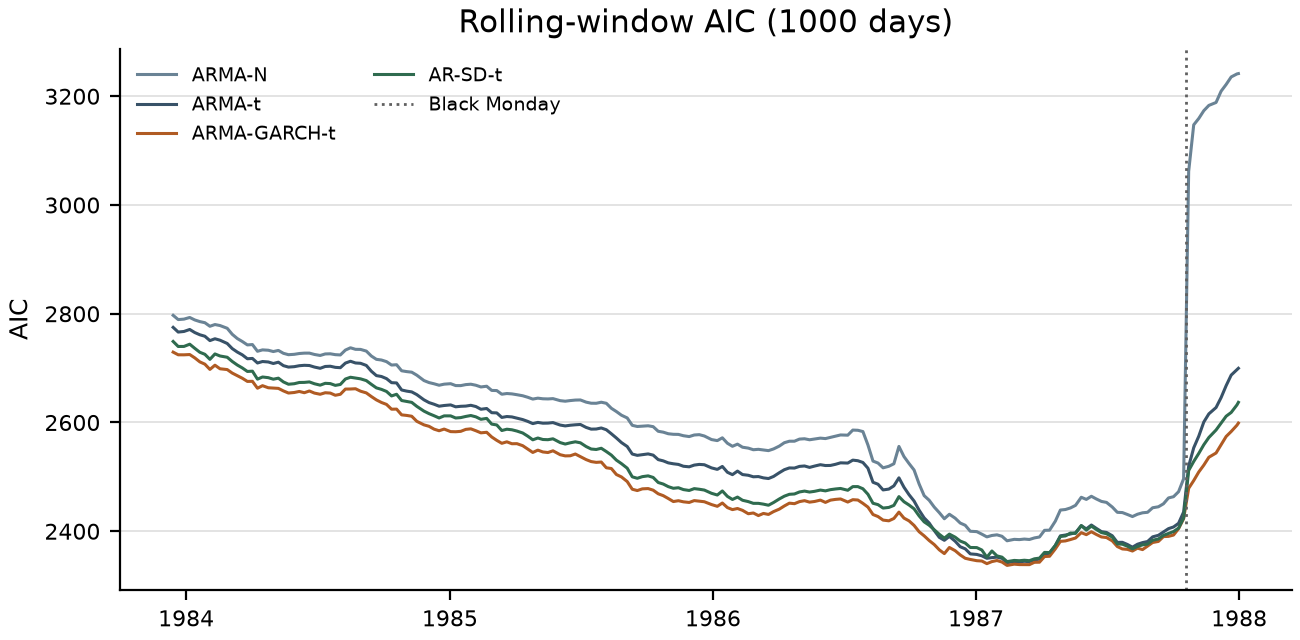
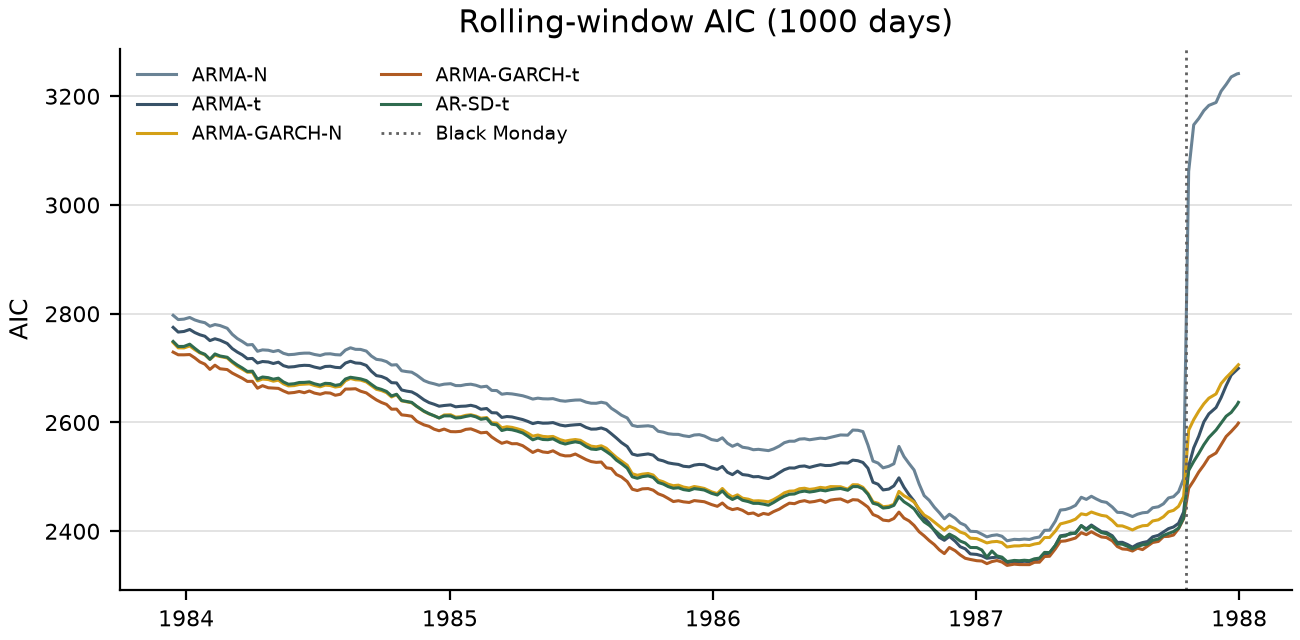
Update notation appendix and enhance model comparison functionality
- Expanded the notation appendix to include ARMA-GARCH-N alongside existing models.
- Updated `compare_models.py` to incorporate ARMA-GARCH-N in model comparisons.
- Revised README to reflect the addition of the new model and its specifications.
- Modified GARCH model implementations to support both Gaussian and Student-t innovations.

diff --git a/models/garch.py b/models/garch.py
@@ -1,4 +1,4 @@
-"""AR(1)–GARCH(1,1) with Student-t innovations."""
+"""AR(1)–GARCH(1,1) with Gaussian or Student-t innovations."""
 
 from __future__ import annotations
 
@@ -13,23 +13,31 @@ try:
 except Exception:
     _HAS_ARCH = False
 
+_LABELS = {"normal": "ARMA-GARCH-N", "t": "ARMA-GARCH-t"}
+_ARCH_DIST = {"normal": "normal", "t": "t"}
 
-def fit_ar_garch_t(returns) -> dict:
-    """Fit AR(1)–GARCH(1,1)–t and return VaR, AIC, residuals, and simulator."""
+
+def _fit_ar_garch(returns, distribution: str) -> dict:
+    """Fit AR(1)–GARCH(1,1) and return VaR, AIC, residuals, and simulator."""
+    if distribution not in _LABELS:
+        raise ValueError(f"Unknown distribution: {distribution}")
+    label = _LABELS[distribution]
     y = np.asarray(returns, dtype=float)
 
     if _HAS_ARCH:
-        model = arch_model(y, mean="AR", lags=1, vol="GARCH", p=1, q=1, dist="t")
+        model = arch_model(
+            y, mean="AR", lags=1, vol="GARCH", p=1, q=1, dist=_ARCH_DIST[distribution]
+        )
         fitted = model.fit(disp="off", show_warning=False)
         if fitted.convergence_flag != 0:
-            fitted_core = fit_ar_garch(y, distribution="t")
+            fitted_core = fit_ar_garch(y, distribution=distribution)
             params = fitted_core["params"]
 
             def simulate(n: int, rng: np.random.Generator) -> np.ndarray:
-                return simulate_ar_garch(params, n, rng, distribution="t")
+                return simulate_ar_garch(params, n, rng, distribution=distribution)
 
             return {
-                "model": "ARMA-GARCH-t",
+                "model": label,
                 "aic": fitted_core["aic"],
                 "var_1pct": fitted_core["var_1pct"],
                 "simulate": simulate,
@@ -41,8 +49,13 @@ def fit_ar_garch_t(returns) -> dict:
         mean = float(forecast.mean.iloc[-1, 0])
         vol = float(np.sqrt(forecast.variance.iloc[-1, 0]))
         innovation = model.distribution
-        shape = fitted.params.reindex(innovation.parameter_names()).to_numpy()
-        var_1pct = mean + vol * float(innovation.ppf(0.01, shape))
+        if distribution == "t":
+            shape = fitted.params.reindex(innovation.parameter_names()).to_numpy()
+            var_1pct = mean + vol * float(innovation.ppf(0.01, shape))
+            nu = float(fitted.params["nu"])
+        else:
+            var_1pct = mean + vol * float(innovation.ppf(0.01))
+            nu = None
         std_resid = np.asarray(fitted.std_resid, dtype=float)
         std_resid = std_resid[np.isfinite(std_resid)]
         const = float(fitted.params.get("Const", fitted.params.get("mu", 0.0)))
@@ -50,7 +63,6 @@ def fit_ar_garch_t(returns) -> dict:
         omega = float(fitted.params["omega"])
         alpha = float(fitted.params["alpha[1]"])
         beta = float(fitted.params["beta[1]"])
-        nu = float(fitted.params["nu"])
         cond_vol = np.asarray(fitted.conditional_volatility, dtype=float)
         params = {
             "const": const,
@@ -67,10 +79,10 @@ def fit_ar_garch_t(returns) -> dict:
         }
 
         def simulate(n: int, rng: np.random.Generator) -> np.ndarray:
-            return simulate_ar_garch(params, n, rng, distribution="t")
+            return simulate_ar_garch(params, n, rng, distribution=distribution)
 
         return {
-            "model": "ARMA-GARCH-t",
+            "model": label,
             "aic": float(fitted.aic),
             "var_1pct": float(var_1pct),
             "simulate": simulate,
@@ -78,17 +90,27 @@ def fit_ar_garch_t(returns) -> dict:
             "params": params,
         }
 
-    fitted = fit_ar_garch(y, distribution="t")
+    fitted = fit_ar_garch(y, distribution=distribution)
     params = fitted["params"]
 
     def simulate(n: int, rng: np.random.Generator) -> np.ndarray:
-        return simulate_ar_garch(params, n, rng, distribution="t")
+        return simulate_ar_garch(params, n, rng, distribution=distribution)
 
     return {
-        "model": "ARMA-GARCH-t",
+        "model": label,
         "aic": fitted["aic"],
         "var_1pct": fitted["var_1pct"],
         "simulate": simulate,
         "std_resid": fitted["std_resid"],
         "params": params,
     }
+
+
+def fit_ar_garch_n(returns) -> dict:
+    """Fit AR(1)–GARCH(1,1)–Normal."""
+    return _fit_ar_garch(returns, "normal")
+
+
+def fit_ar_garch_t(returns) -> dict:
+    """Fit AR(1)–GARCH(1,1)–t and return VaR, AIC, residuals, and simulator."""
+    return _fit_ar_garch(returns, "t")

diff --git a/annexe_notations.tex b/annexe_notations.tex
@@ -1,7 +1,7 @@
 \section*{Appendix~A --- Notation and Variable Definitions}
 \label{annexe:notations}
 
-This appendix lists all symbols used in the presentation of the five forecasting models: Gaussian ARMA (ARMA-N), Student-$t$ ARMA (ARMA-t), ARMA-GARCH-t~\cite{Bollerslev1986}, Extreme Value / McNeil--Frey~\cite{McNeilFrey2000}, and AR-SD-t~\cite{DelleMonachePetrella2017}. When the same symbol appears in more than one model, its local meaning is spelled out.
+This appendix lists all symbols used in the presentation of the six forecasting models: Gaussian ARMA (ARMA-N), Student-$t$ ARMA (ARMA-t), ARMA-GARCH-N and ARMA-GARCH-t~\cite{Bollerslev1986}, Extreme Value / McNeil--Frey~\cite{McNeilFrey2000}, and AR-SD-t~\cite{DelleMonachePetrella2017}. When the same symbol appears in more than one model, its local meaning is spelled out.
 
 \subsection*{A.1 Common variables and parameters}
 
@@ -21,7 +21,7 @@ This appendix lists all symbols used in the presentation of the five forecasting
   \item[$W_t$]
     Innovation (noise) at date~$t$. Its distribution depends on the model:
     Gaussian for ARMA-N, Student-$t$ for ARMA-t and AR-SD-t,
-    and $\sigma_t Z_t$ for ARMA-GARCH-t.
+    and $\sigma_t Z_t$ for ARMA-GARCH-N / ARMA-GARCH-t.
   \item[$W_{t-1}$]
     One-period lagged innovation (MA term).
   \item[$\nu$]
@@ -62,12 +62,16 @@ This appendix lists all symbols used in the presentation of the five forecasting
     the variance equals $s^2\,\nu/(\nu-2)$ when $\nu > 2$.
 \end{description}
 
-\subsection*{A.4 ARMA-GARCH-t}
+\subsection*{A.4 ARMA-GARCH-N and ARMA-GARCH-t}
 
 \begin{align*}
   Y_t &= c + \varphi Y_{t-1} + W_t, \\
   W_t &= \sigma_t Z_t,
-  \qquad Z_t \sim t_{\nu}, \\
+  \qquad Z_t \sim
+  \begin{cases}
+    \mathcal{N}(0,1) & \text{(ARMA-GARCH-N)}, \\
+    t_{\nu} & \text{(ARMA-GARCH-t)},
+  \end{cases} \\
   \sigma_t^2 &= \omega + \alpha W_{t-1}^2 + \beta \sigma_{t-1}^2.
 \end{align*}
 
@@ -80,7 +84,7 @@ This appendix lists all symbols used in the presentation of the five forecasting
     Lagged conditional variance (GARCH persistence).
   \item[$Z_t$]
     Standardized residual: unit-variance white innovation,
-    here following a Student-$t$ distribution with $\nu$ degrees of freedom.
+    Gaussian for ARMA-GARCH-N, Student-$t$ with $\nu$ degrees of freedom for ARMA-GARCH-t.
   \item[$\omega$]
     Constant in the GARCH variance equation ($\omega > 0$).
   \item[$\alpha$]
@@ -179,7 +183,7 @@ The lower tail is modeled with a generalized Pareto distribution (GPD) on excess
 \subsection*{A.7 Summary of notational ambiguities}
 
 \begin{itemize}
-  \item $\beta$ denotes the GARCH coefficient in ARMA-GARCH-t, and the GPD scale in the Extreme Value model.
+  \item $\beta$ denotes the GARCH coefficient in ARMA-GARCH-N / ARMA-GARCH-t, and the GPD scale in the Extreme Value model.
   \item $\sigma$ / $\sigma_t$ denote a constant innovation scale (ARMA-N) or a conditional volatility (GARCH, AR-SD-t).
   \item $W_t$ is always the mean-equation innovation, but its distribution and any heteroskedastic structure depend on the model.
   \item Hats ($\hat{\,\cdot\,}$) mark estimated quantities (McNeil--Frey filter).

diff --git a/compare_models.py b/compare_models.py
@@ -16,6 +16,7 @@ from matplotlib.dates import DateFormatter, YearLocator, date2num
 from download_data import BLACK_MONDAY, DATA_PATH, FRIDAY
 from models import (
     estimate_extremogram,
+    fit_ar_garch_n,
     fit_ar_garch_t,
     fit_ar_sd_t,
     fit_arma,
@@ -35,10 +36,11 @@ SIM_LENGTH = 5000
 FIGSIZE = (6.5, 3.2)
 DPI = 200
 
-MODEL_ORDER = ["ARMA-N", "ARMA-t", "ARMA-GARCH-t", "EVT (MF)", "AR-SD-t"]
+MODEL_ORDER = ["ARMA-N", "ARMA-t", "ARMA-GARCH-N", "ARMA-GARCH-t", "EVT (MF)", "AR-SD-t"]
 COLORS = {
     "ARMA-N": "#6a8395",
     "ARMA-t": "#385268",
+    "ARMA-GARCH-N": "#d4a017",
     "ARMA-GARCH-t": "#b05b23",
     "EVT (MF)": "#a52c25",
     "AR-SD-t": "#2f6b4f",
@@ -71,6 +73,7 @@ def fit_all(window: np.ndarray) -> list[dict]:
         warnings.simplefilter("ignore")
         results.append(fit_arma(window, "normal"))
         results.append(fit_arma(window, "t"))
+        results.append(fit_ar_garch_n(window))
         results.append(fit_ar_garch_t(window))
         results.append(fit_evt_mf(window))
         results.append(fit_ar_sd_t(window))
@@ -213,12 +216,35 @@ def plot_exceedance(rows: list[dict]) -> None:
 
 def plot_pinball(rows: list[dict]) -> None:
     fig, ax = plt.subplots(figsize=FIGSIZE, layout="constrained")
+    n_forecasts = 0
     for model in MODEL_ORDER:
         xs, pinball = _series_for_model(rows, model, "pinball")
+        _, hits = _series_for_model(rows, model, "hit")
         roll = _rolling_mean(pinball, PINBALL_ROLL)
-        ax.plot(xs, roll, color=COLORS[model], linewidth=1.1, label=model)
+        avg = float(np.nanmean(pinball))
+        n_forecasts = int(np.sum(np.isfinite(pinball)))
+        n_breaches = int(np.nansum(hits))
+        color = COLORS[model]
+        ax.plot(
+            xs,
+            roll,
+            color=color,
+            linewidth=1.1,
+            label=f"{model}: avg {avg:.3f}, {n_breaches}*",
+        )
+        ax.axhline(avg, color=color, linestyle=":", linewidth=1.0)
     span = PINBALL_ROLL * ORIGIN_STEP
     _style_half_slide(ax, f"Rolling ~{span}-day pinball loss (1% quantile)", "Pinball")
+    ax.text(
+        0.0,
+        -0.18,
+        f"* breaches / {n_forecasts} forecasts",
+        transform=ax.transAxes,
+        fontsize=7,
+        color="#404040",
+        ha="left",
+        va="top",
+    )
     fig.savefig(OUTPUT_DIR / "pinball_loss.png", dpi=DPI)
     plt.close(fig)
 

diff --git a/models/__init__.py b/models/__init__.py
@@ -3,11 +3,12 @@
 from models.arma import fit_arma
 from models.evt_mf import fit_evt_mf
 from models.extremogram import estimate_extremogram
-from models.garch import fit_ar_garch_t
+from models.garch import fit_ar_garch_n, fit_ar_garch_t
 from models.score_driven import fit_ar_sd_t
 
 __all__ = [
     "fit_arma",
+    "fit_ar_garch_n",
     "fit_ar_garch_t",
     "fit_evt_mf",
     "fit_ar_sd_t",

diff --git a/README.md b/README.md
@@ -8,7 +8,7 @@ The downloader saves 2,024 daily S&P 500 price-index closes from December 31, 19
 
 1. Compute simple returns in percent as `100 * (close_today / close_previous_session - 1)`.
 2. **Event study** (`black_monday.py`): fit Gaussian and Student-t GARCH(1,1) on returns through Friday, October 16, 1987, then evaluate the probability of the observed Monday crash.
-3. **Rolling comparison** (`compare_models.py`): 1000-day rolling windows through end-1987, re-estimated every 5 sessions (`ORIGIN_STEP`), comparing five models at the 1% lower quantile. ARMA(1,1) is fit in pure NumPy/SciPy; GARCH uses `arch` when available and a NumPy fallback otherwise.
+3. **Rolling comparison** (`compare_models.py`): 1000-day rolling windows through end-1987, re-estimated every 5 sessions (`ORIGIN_STEP`), comparing six models at the 1% lower quantile. ARMA(1,1) is fit in pure NumPy/SciPy; GARCH uses `arch` when available and a NumPy fallback otherwise.
 
 ### Models in the rolling comparison
 
@@ -16,6 +16,7 @@ The downloader saves 2,024 daily S&P 500 price-index closes from December 31, 19
 | --- | --- |
 | ARMA-N | ARMA(1,1) + Gaussian residuals, constant variance |
 | ARMA-t | ARMA(1,1) + Student-t residuals, constant variance |
+| ARMA-GARCH-N | AR(1)–GARCH(1,1)–Gaussian |
 | ARMA-GARCH-t | AR(1)–GARCH(1,1)–Student-t |
 | EVT (MF) | McNeil–Frey: Gaussian AR(1)–GARCH filter + GPD on residual lower tail |
 | AR-SD-t | Simplified score-driven AR(1) with Student-t innovations (Delle Monache–Petrella style) |
@@ -37,8 +38,8 @@ The Student-t fit estimated about 8.17 degrees of freedom and assigned far more 
 
 Half-slide figures written to `outputs/`:
 
-1. `aic_rolling.png` — window AIC over time for ARMA-N, ARMA-t, ARMA-GARCH-t, AR-SD-t. **EVT is excluded**: its GPD likelihood is only over threshold exceedances and is not comparable to full-sample ARMA/GARCH AIC.
-2. `exceedance_rate.png` — rolling VaR hit rate at 1% versus the nominal 1% line (all five models).
+1. `aic_rolling.png` — window AIC over time for ARMA-N, ARMA-t, ARMA-GARCH-N, ARMA-GARCH-t, AR-SD-t. **EVT is excluded**: its GPD likelihood is only over threshold exceedances and is not comparable to full-sample ARMA/GARCH AIC.
+2. `exceedance_rate.png` — rolling VaR hit rate at 1% versus the nominal 1% line (all six models).
 3. `pinball_loss.png` — rolling pinball loss at the 1% quantile (main ranking metric for quantile forecasts).
 4. `extremogram.png` — Davis–Mikosch extremogram of absolute returns (quantile 0.98) for the pre-crash 1000-day window, plus long simulations from each fitted model.
 
